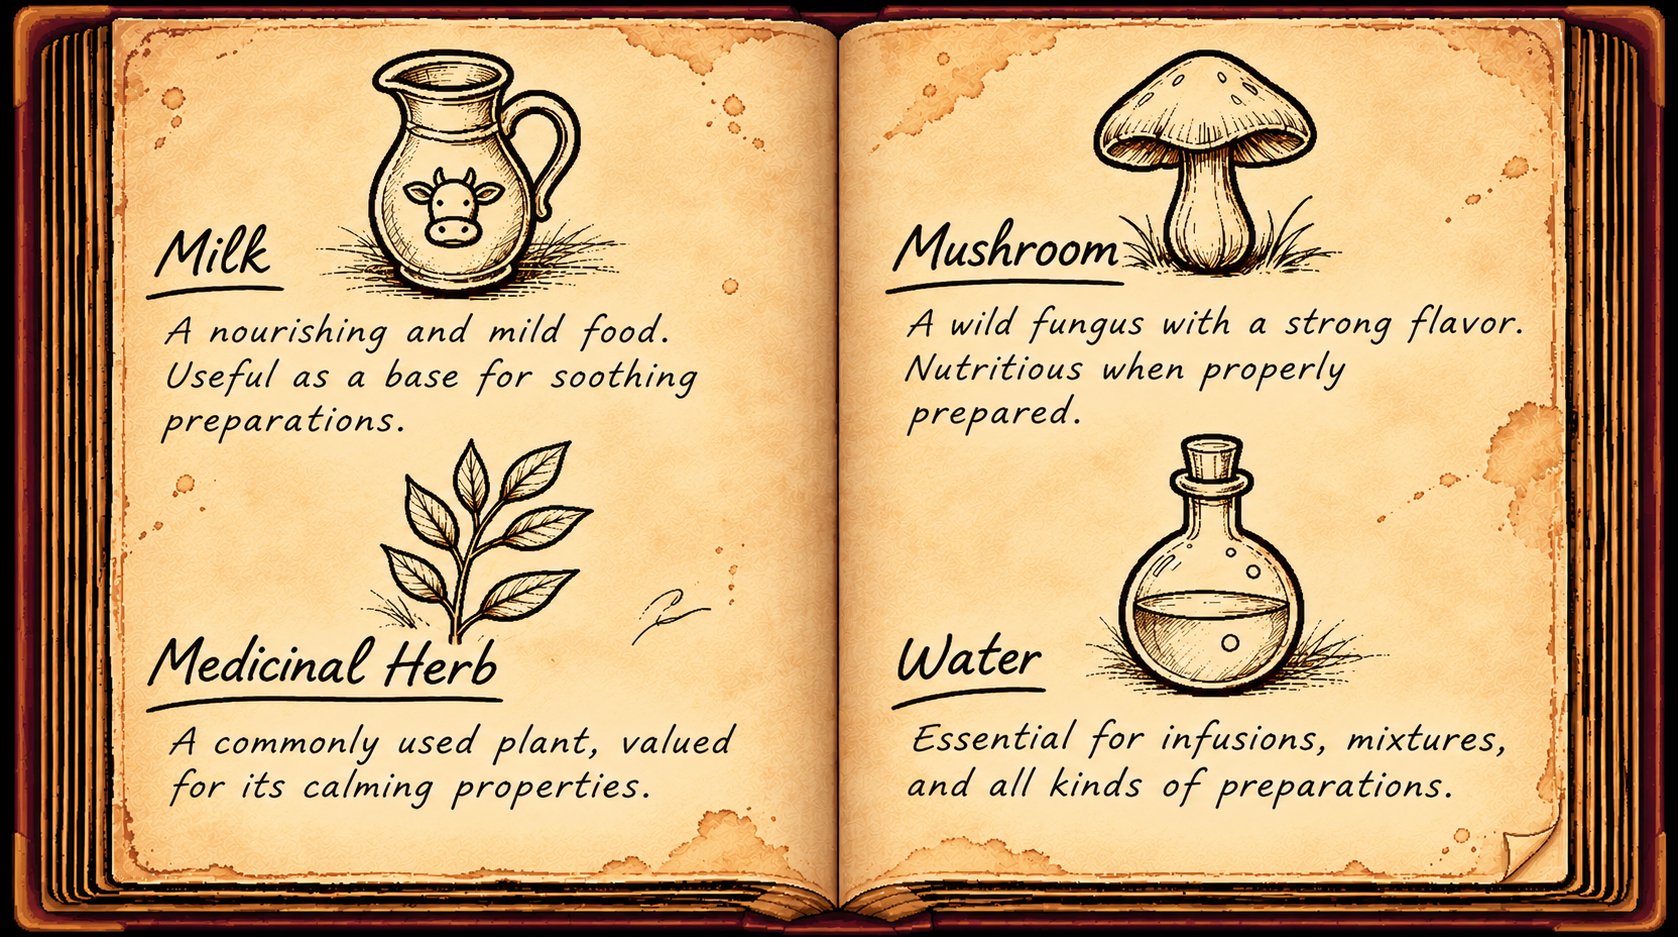
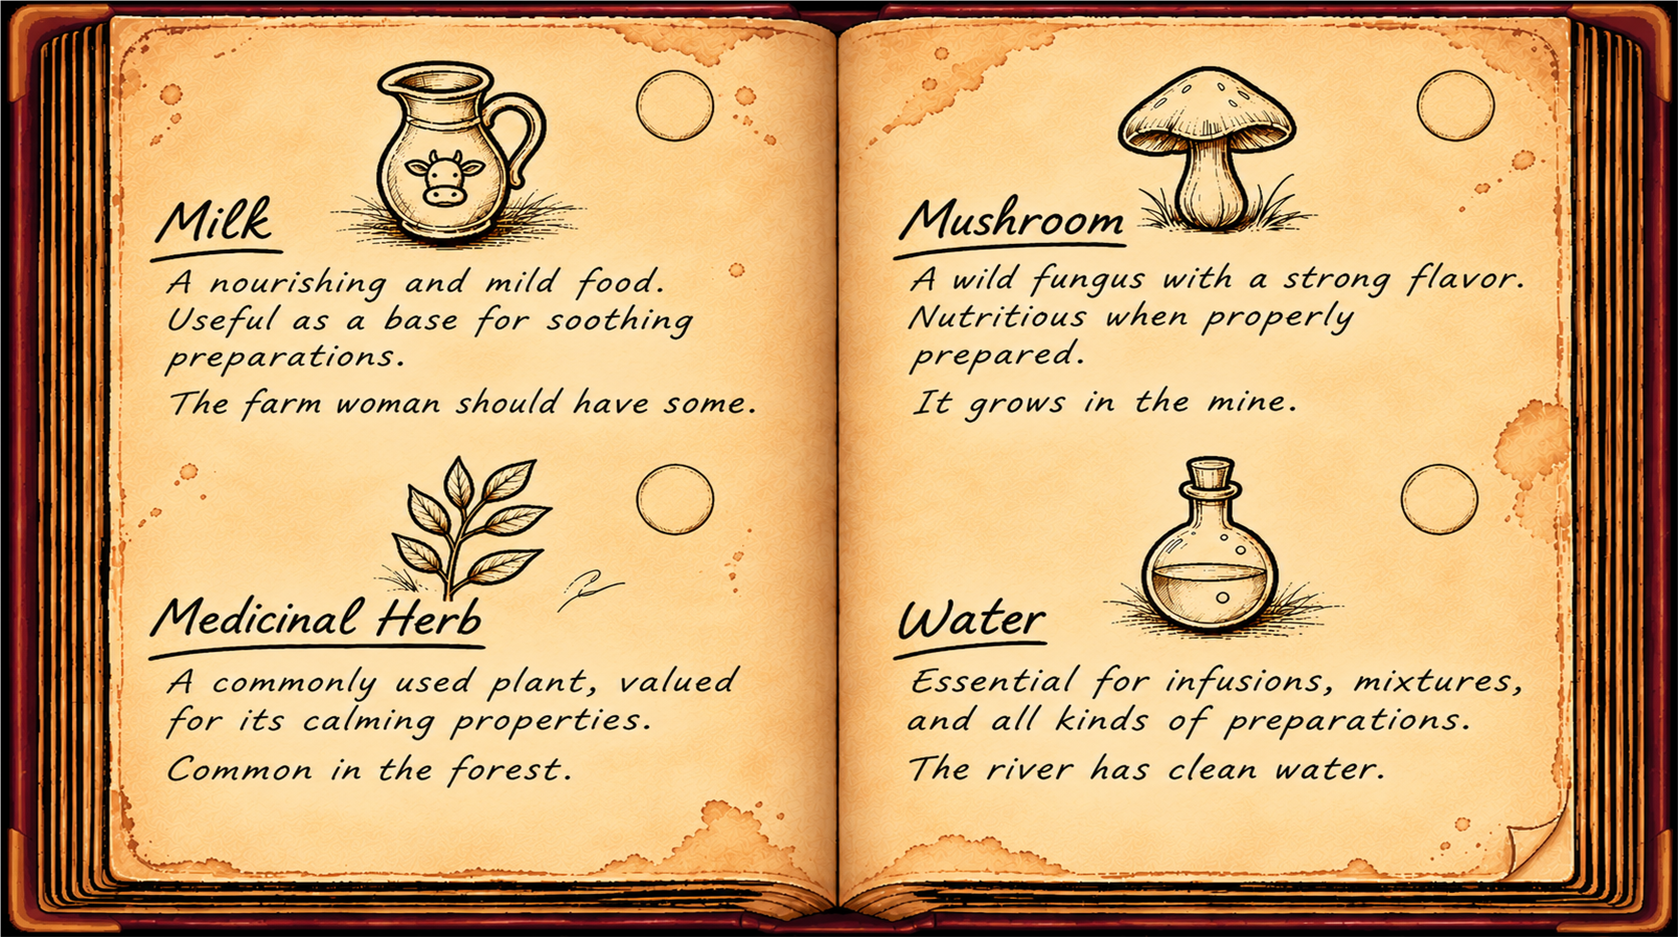
Compendium: tabs Pacientes, Ingredientes, Preparados, Dolencias; only the day's patients, treated last in green; new ingredient spreads ES/EN with source hints and quantity circles (Codex)

diff --git a/src/game/book/dynamicPages.ts b/src/game/book/dynamicPages.ts
@@ -13,6 +13,7 @@ import { PLAIN_BASE_LAYER, type BookSpread } from "./bookPages";
 import type { BookTextBlock } from "./bookText";
 import { PREPARATION_DESCRIPTIONS, getPreparationUse } from "./preparations";
 import { DIAGNOSIS_SYMPTOMS } from "../patients/diagnosis";
+import { PATIENT_IDS_BY_CHAPTER } from "../patients/chapterPatients";
 
 // The PACIENTES and PREPARADOS pages are not fixed content: they are drawn from
 // the patient cases, the inventory and the recipes the Doctor knows. Nothing
@@ -25,6 +26,8 @@ export type BookContext = {
   knownRecipeIds: ReadonlySet<string>;
   storyFlags?: ReadonlySet<string>;
   diagnosisPatientId?: string;
+  // The day being played: PACIENTES shows only that day's cases (left out = every case the Doctor knows).
+  chapterId?: string;
 };
 
 // Text columns of the open book (art space 688x384): left page and right page.
@@ -69,9 +72,15 @@ export function buildPatientSpreads(context: BookContext): BookSpread[] {
   const { language, patients, inventory } = context;
   const copy = bookCopy[language];
   const definitions = getPatientDefinitions(context.storyFlags);
-  const ids = getVisiblePatientIds(patients).filter(
-    (id) => definitions[id],
+  // 2026-11-26 (Kilian): only the day's own patients, the treated ones last.
+  const ofToday = context.chapterId ? new Set(PATIENT_IDS_BY_CHAPTER[context.chapterId] ?? []) : null;
+  const visible = getVisiblePatientIds(patients).filter(
+    (id) => definitions[id] && (!ofToday || ofToday.has(id)),
   );
+  const ids = [
+    ...visible.filter((id) => getPatientStatus(patients, id) !== "treated"),
+    ...visible.filter((id) => getPatientStatus(patients, id) === "treated"),
+  ];
 
   if (ids.length === 0) {
     return [
@@ -87,7 +96,10 @@ export function buildPatientSpreads(context: BookContext): BookSpread[] {
     const definition = definitions[id];
     const status = getPatientStatus(patients, id);
     const texts: BookTextBlock[] = [
-      text(`${id}-name`, "heading", LEFT, NAME_Y, definition.name[language]),
+      {
+        ...text(`${id}-name`, "heading", LEFT, NAME_Y, definition.name[language]),
+        ...(status === "treated" ? { tone: "good" as const } : {}),
+      },
     ];
 
     if (status === "discovered") {
@@ -153,15 +165,16 @@ export function buildPatientSpreads(context: BookContext): BookSpread[] {
       });
 
       if (status === "treated") {
-        texts.push(
-          text(
+        texts.push({
+          ...text(
             `${id}-treated`,
             "heading",
             RIGHT,
             LINES_Y + definition.requiredTreatments.length * LINE_STEP + 18,
             copy.treated,
           ),
-        );
+          tone: "good" as const,
+        });
       }
     }
 

diff --git a/src/game/book/bookPages.ts b/src/game/book/bookPages.ts
@@ -183,11 +183,11 @@ function ailmentSpread(ailment: Ailment, language: Language = "es"): BookSpread 
 // hold the paper, the edges, the drawings and the writing: one per language and
 // in the same conceptual order in both, so the page the Doctor is on stays the
 // same when the language changes:
-//   1 Milk / Medicinal herb / Mushroom / Water
-//   2 Alcohol / Flour / Charcoal / Cloth
-//   3 Orange / Mint / Honey / Resin
-//   4 Animal fat / Garlic / Salt / Leech
-//   5 Bone / Pine mushroom / Sugar / Onion (the basic ingredients added later)
+//   1 Milk / Mushroom / Medicinal herb / Water
+//   2 Alcohol / Charcoal / Flour / Cloth
+//   3 Orange / Honey / Mint / Resin
+//   4 Animal fat / Salt / Garlic / Leech
+//   5 Bone / Sugar / Pine mushroom / Onion (the basic ingredients added later)
 const INGREDIENT_SPREAD_COUNTS: Record<Language, number> = { es: 5, en: 5 };
 
 function ingredientSpreads(language: Language): BookSpread[] {
@@ -265,14 +265,13 @@ export function buildBookSections(context: BookContext): BookSection[] {
   const tabs = bookCopy[context.language].tabs;
   const [, ailments, ingredients] = BOOK_SECTIONS;
 
+  // 2026-11-26 (Kilian): Pacientes first, then the order the tutorial teaches them (Ingredientes, Preparados, Dolencias).
   return [
     {
       id: "patients",
       label: tabs.patients,
       spreads: buildPatientSpreads(context),
     },
-    { ...ailments, label: tabs.ailments, spreads: AILMENTS.map(ailment =>
-      ailmentSpread(context.language === "en" ? { ...ailment, ...AILMENTS_EN[ailment.id] } : ailment, context.language)) },
     {
       ...ingredients,
       label: tabs.ingredients,
@@ -283,5 +282,7 @@ export function buildBookSections(context: BookContext): BookSection[] {
       label: tabs.preparations,
       spreads: buildPreparationSpreads(context),
     },
+    { ...ailments, label: tabs.ailments, spreads: AILMENTS.map(ailment =>
+      ailmentSpread(context.language === "en" ? { ...ailment, ...AILMENTS_EN[ailment.id] } : ailment, context.language)) },
   ];
 }

diff --git a/src/game/i18n/book.ts b/src/game/i18n/book.ts
@@ -50,11 +50,11 @@ export const bookCopy: Record<Language, BookCopy> = {
       note: "Todavía no hay recetas conocidas.",
     },
     ingredientSpreadAlts: [
-      "Ingredientes: leche, hierba medicinal, hongo y agua",
-      "Ingredientes: alcohol, harina, carbón y tela",
-      "Ingredientes: naranja, menta, miel y resina",
-      "Ingredientes: grasa animal, ajo, sal y sanguijuela",
-      "Ingredientes: hueso, seta de pino, azúcar y cebolla",
+      "Ingredientes: leche, champiñón de cueva, hierba medicinal y agua",
+      "Ingredientes: alcohol, carbón, harina y tela",
+      "Ingredientes: naranja, miel, menta y resina",
+      "Ingredientes: grasa animal, sal, ajo y sanguijuela",
+      "Ingredientes: hueso, azúcar, seta de pino y cebolla",
     ],
     station: "Estación",
     stations: { manual: "Mesa", fire: "Cocina", mortar: "Mortero", chop: "Tabla" },
@@ -77,11 +77,11 @@ export const bookCopy: Record<Language, BookCopy> = {
     treated: "✓ TREATED",
     noRecipes: { title: "Remedies", note: "No known recipes yet." },
     ingredientSpreadAlts: [
-      "Ingredients: milk, medicinal herb, mushroom and water",
-      "Ingredients: alcohol, flour, charcoal and cloth",
-      "Ingredients: orange, mint, honey and resin",
-      "Ingredients: animal fat, garlic, salt and leech",
-      "Ingredients: bone, pine mushroom, sugar and onion",
+      "Ingredients: milk, mushroom, medicinal herb and water",
+      "Ingredients: alcohol, charcoal, flour and cloth",
+      "Ingredients: orange, honey, mint and resin",
+      "Ingredients: animal fat, salt, garlic and leech",
+      "Ingredients: bone, sugar, pine mushroom and onion",
     ],
     station: "Station",
     stations: { manual: "Work table", fire: "Stove", mortar: "Mortar", chop: "Board" },

diff --git a/src/game/world/GameWorld.tsx b/src/game/world/GameWorld.tsx
@@ -1892,7 +1892,7 @@ export function GameWorld({
       )}
       {bookOpen ? (
         <BookOverlay
-          context={{ language, patients, inventory, knownRecipeIds, storyFlags: claimedRewards, diagnosisPatientId: diagnosis?.patientId }}
+          context={{ language, patients, inventory, knownRecipeIds, storyFlags: claimedRewards, diagnosisPatientId: diagnosis?.patientId, chapterId }}
           // While the tutorial teaches page turning, the book opens on a section
           // with several pages made of things the Doctor already knows
           // (PACIENTES has a single page at the start). INGREDIENTES, not

diff --git a/src/game/book/BookOverlay.tsx b/src/game/book/BookOverlay.tsx
@@ -261,7 +261,7 @@ function SpreadView({ spread }: { spread: BookSpread }) {
       {spread.texts?.map((block) => (
         <p
           key={block.id}
-          className={`${styles.text} ${styles[block.role]}`}
+          className={`${styles.text} ${styles[block.role]}${block.tone === "good" ? ` ${styles.good}` : ""}`}
           style={{
             left: block.x,
             top: BOOK_TOP + block.y,

diff --git a/src/game/book/bookText.ts b/src/game/book/bookText.ts
@@ -18,5 +18,7 @@ export type BookTextBlock = {
   y: number;
   width: number;
   align?: "left" | "center";
+  // "good": drawn in green (a treated patient, 2026-11-26).
+  tone?: "good";
   content: RichText;
 };

diff --git a/src/game/book/BookOverlay.module.css b/src/game/book/BookOverlay.module.css
@@ -82,6 +82,11 @@
   text-underline-offset: 4px;
 }
 
+/* a treated patient: name and mark in green ink (2026-11-26) */
+.good {
+  color: #2e6a30;
+}
+
 .heading {
   font-size: 20px;
   line-height: 1.1;

diff --git a/docs/AI_PROJECT_CONTEXT.md b/docs/AI_PROJECT_CONTEXT.md
@@ -547,6 +547,15 @@ and known recipes. Ailment definitions are separate from individual patient case
 The current Book uses image layers and optional text in a 688x384 art coordinate
 space. Painted ingredient spreads are their own visual source; do not duplicate
 text already baked into those images with another text layer.
+The Spanish ingredient spreads now include short source hints, and both Spanish
+and English ingredient spreads have an empty hand-drawn circle by every item.
+That circle is a visual anchor for a runtime quantity overlay: show the total
+units currently available across the Doctor's briefcase and the room chest.
+Keep the circles blank in the image assets; the count must remain dynamic and
+must not be baked into the artwork. Render the count in green when above zero
+and red when it is zero. The runtime number overlay is still pending.
+The English pages also include translated source hints. Both language sets use
+five matching ingredient spreads.
 
 ## Patients
 
